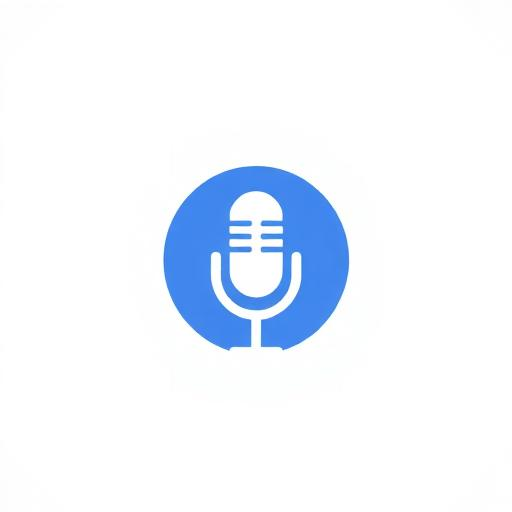
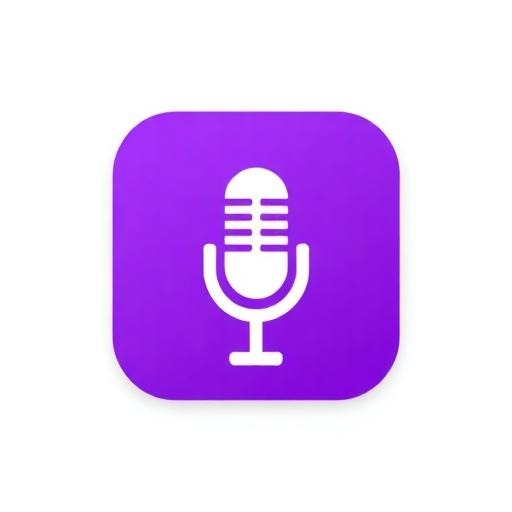
Update theme and sync with GitHub
Update website theme to white and purple, replacing blue and yellow. Implement GitHub synchronization.

Changed region(s): [[0.2188, 0.1875, 0.7812, 0.8125]]

diff --git a/src/index.css b/src/index.css
@@ -6,70 +6,72 @@
 
 @layer base {
   :root {
-    /* Base colors - high contrast for accessibility */
-    --background: 248 250 252;
-    --foreground: 15 23 42;
+    /* Base colors - clean white background with high contrast */
+    --background: 255 255 255;
+    --foreground: 30 27 75;
 
     /* Card system */
     --card: 255 255 255;
-    --card-foreground: 15 23 42;
+    --card-foreground: 30 27 75;
 
     /* Popover system */
     --popover: 255 255 255;
-    --popover-foreground: 15 23 42;
+    --popover-foreground: 30 27 75;
 
-    /* Primary - trustworthy blue for financial security */
-    --primary: 219 78% 39%;
-    --primary-foreground: 248 250 252;
-    --primary-hover: 219 78% 34%;
-    --primary-glow: 219 78% 65%;
+    /* Primary - rich purple for main actions */
+    --primary: 271 91% 65%;
+    --primary-foreground: 255 255 255;
+    --primary-hover: 271 91% 60%;
+    --primary-glow: 271 91% 80%;
 
-    /* Secondary - calm gray for secondary actions */
-    --secondary: 215 20% 65%;
-    --secondary-foreground: 15 23 42;
+    /* Secondary - soft purple for secondary actions */
+    --secondary: 270 20% 95%;
+    --secondary-foreground: 30 27 75;
 
-    /* Success - clear green for positive actions */
+    /* Success - vibrant green for positive actions */
     --success: 142 76% 36%;
     --success-foreground: 255 255 255;
     --success-glow: 142 76% 55%;
 
-    /* Warning - amber for caution */
-    --warning: 38 92% 50%;
-    --warning-foreground: 15 23 42;
+    /* Warning - bright yellow for attention */
+    --warning: 45 93% 58%;
+    --warning-foreground: 30 27 75;
 
     /* Error - red for errors and danger */
     --error: 0 84% 60%;
     --error-foreground: 255 255 255;
 
     /* Muted colors */
-    --muted: 210 40% 96%;
-    --muted-foreground: 64 64 64;
+    --muted: 270 20% 96%;
+    --muted-foreground: 115 115 115;
 
-    /* Accent colors */
-    --accent: 219 78% 95%;
-    --accent-foreground: 15 23 42;
+    /* Accent - bright yellow for highlights */
+    --accent: 45 93% 58%;
+    --accent-foreground: 30 27 75;
 
     /* Voice interaction colors */
-    --voice-active: 219 78% 39%;
+    --voice-active: 271 91% 65%;
     --voice-listening: 142 76% 36%;
-    --voice-processing: 38 92% 50%;
+    --voice-processing: 45 93% 58%;
     --voice-error: 0 84% 60%;
 
     /* Border and input */
-    --border: 215 14% 89%;
-    --input: 215 14% 89%;
-    --ring: 219 78% 39%;
+    --border: 270 20% 90%;
+    --input: 270 20% 90%;
+    --ring: 271 91% 65%;
 
     /* Gradients for visual appeal */
     --gradient-primary: linear-gradient(135deg, hsl(var(--primary)), hsl(var(--primary-glow)));
     --gradient-success: linear-gradient(135deg, hsl(var(--success)), hsl(var(--success-glow)));
     --gradient-voice: linear-gradient(135deg, hsl(var(--voice-active)), hsl(var(--primary-glow)));
+    --gradient-accent: linear-gradient(135deg, hsl(var(--accent)), hsl(var(--warning)));
 
     /* Shadows for depth */
     --shadow-sm: 0 1px 2px 0 hsl(var(--primary) / 0.05);
     --shadow-md: 0 4px 6px -1px hsl(var(--primary) / 0.1);
     --shadow-lg: 0 10px 15px -3px hsl(var(--primary) / 0.1);
     --shadow-glow: 0 0 20px hsl(var(--primary-glow) / 0.3);
+    --shadow-yellow: 0 0 20px hsl(var(--accent) / 0.3);
 
     /* Animation timing */
     --transition-smooth: all 0.3s cubic-bezier(0.4, 0, 0.2, 1);
@@ -95,41 +97,41 @@
   }
 
   .dark {
-    --background: 222.2 84% 4.9%;
-    --foreground: 210 40% 98%;
+    --background: 30 27 75;
+    --foreground: 255 255 255;
 
-    --card: 222.2 84% 4.9%;
-    --card-foreground: 210 40% 98%;
+    --card: 30 27 75;
+    --card-foreground: 255 255 255;
 
-    --popover: 222.2 84% 4.9%;
-    --popover-foreground: 210 40% 98%;
+    --popover: 30 27 75;
+    --popover-foreground: 255 255 255;
 
-    --primary: 210 40% 98%;
-    --primary-foreground: 222.2 47.4% 11.2%;
+    --primary: 271 91% 65%;
+    --primary-foreground: 30 27 75;
 
-    --secondary: 217.2 32.6% 17.5%;
-    --secondary-foreground: 210 40% 98%;
+    --secondary: 270 20% 20%;
+    --secondary-foreground: 255 255 255;
 
-    --muted: 217.2 32.6% 17.5%;
-    --muted-foreground: 215 20.2% 65.1%;
+    --muted: 270 20% 20%;
+    --muted-foreground: 180 180 180;
 
-    --accent: 217.2 32.6% 17.5%;
-    --accent-foreground: 210 40% 98%;
+    --accent: 45 93% 58%;
+    --accent-foreground: 30 27 75;
 
     --destructive: 0 62.8% 30.6%;
-    --destructive-foreground: 210 40% 98%;
+    --destructive-foreground: 255 255 255;
 
-    --border: 217.2 32.6% 17.5%;
-    --input: 217.2 32.6% 17.5%;
-    --ring: 212.7 26.8% 83.9%;
-    --sidebar-background: 240 5.9% 10%;
-    --sidebar-foreground: 240 4.8% 95.9%;
-    --sidebar-primary: 224.3 76.3% 48%;
-    --sidebar-primary-foreground: 0 0% 100%;
-    --sidebar-accent: 240 3.7% 15.9%;
-    --sidebar-accent-foreground: 240 4.8% 95.9%;
-    --sidebar-border: 240 3.7% 15.9%;
-    --sidebar-ring: 217.2 91.2% 59.8%;
+    --border: 270 20% 25%;
+    --input: 270 20% 25%;
+    --ring: 271 91% 65%;
+    --sidebar-background: 270 20% 15%;
+    --sidebar-foreground: 255 255 255;
+    --sidebar-primary: 271 91% 65%;
+    --sidebar-primary-foreground: 255 255 255;
+    --sidebar-accent: 270 20% 20%;
+    --sidebar-accent-foreground: 255 255 255;
+    --sidebar-border: 270 20% 20%;
+    --sidebar-ring: 271 91% 65%;
   }
 }
 

diff --git a/src/components/wallet/BalanceDisplay.tsx b/src/components/wallet/BalanceDisplay.tsx
@@ -121,7 +121,7 @@ export const BalanceDisplay: React.FC<BalanceDisplayProps> = ({
         </div>
 
         {/* USDC Balance */}
-        <div className="bg-gradient-success p-4 rounded-lg text-success-foreground">
+        <div className="bg-gradient-accent p-4 rounded-lg text-accent-foreground shadow-yellow">
           <div className="flex items-center justify-between">
             <div>
               <p className="text-sm opacity-90">USD Coin (USDC)</p>
@@ -139,7 +139,7 @@ export const BalanceDisplay: React.FC<BalanceDisplayProps> = ({
               </p>
             </div>
             <div className="text-right">
-              <Badge variant="secondary" className="bg-white/20 text-white">
+              <Badge variant="secondary" className="bg-black/20 text-black">
                 Stablecoin
               </Badge>
             </div>

diff --git a/tailwind.config.ts b/tailwind.config.ts
@@ -83,13 +83,15 @@ export default {
 			backgroundImage: {
 				'gradient-primary': 'var(--gradient-primary)',
 				'gradient-success': 'var(--gradient-success)',
-				'gradient-voice': 'var(--gradient-voice)'
+				'gradient-voice': 'var(--gradient-voice)',
+				'gradient-accent': 'var(--gradient-accent)'
 			},
 			boxShadow: {
 				'sm': 'var(--shadow-sm)',
 				'md': 'var(--shadow-md)',
 				'lg': 'var(--shadow-lg)',
-				'glow': 'var(--shadow-glow)'
+				'glow': 'var(--shadow-glow)',
+				'yellow': 'var(--shadow-yellow)'
 			},
 			transitionTimingFunction: {
 				'smooth': 'var(--transition-smooth)',

diff --git a/index.html b/index.html
@@ -9,7 +9,7 @@
 
     <!-- PWA Manifest -->
     <link rel="manifest" href="/manifest.json" />
-    <meta name="theme-color" content="#1e40af" />
+    <meta name="theme-color" content="#a855f7" />
     <meta name="apple-mobile-web-app-capable" content="yes" />
     <meta name="apple-mobile-web-app-status-bar-style" content="default" />
     <meta name="apple-mobile-web-app-title" content="PayEZ" />
